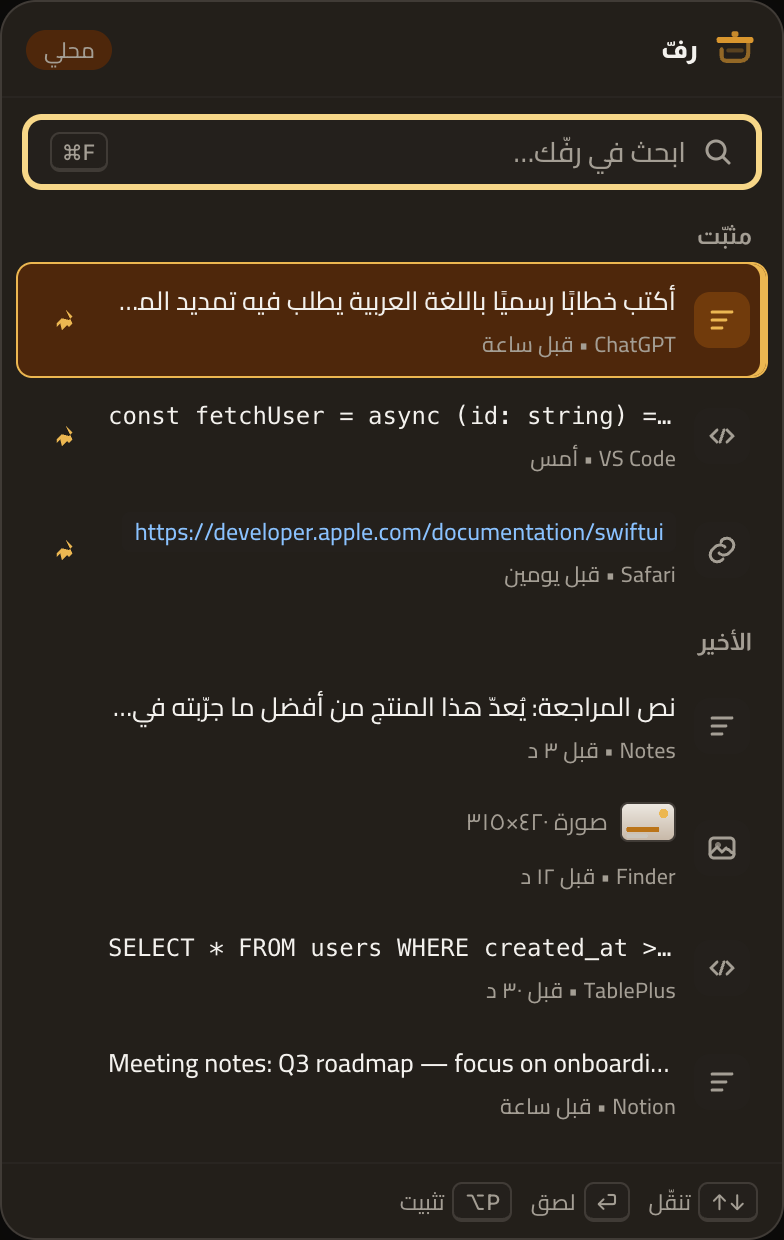
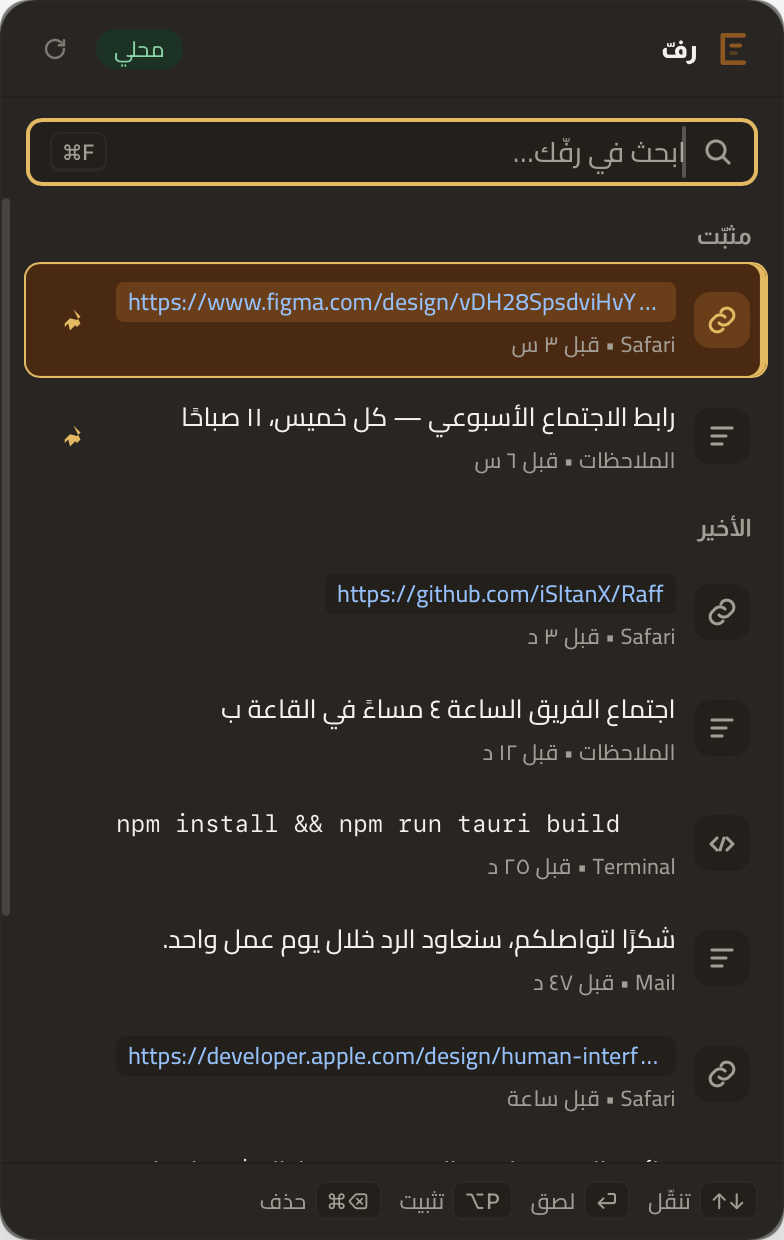
docs: real v3.1.0 screenshots for panel + settings
Replaces the pre-v3.0.0 panel (dark/light) and settings (dark) screenshots
with real captures from the current v3.1.0 build, showing the final
Containing Bracket identity. Captured window-scoped only (screencapture -l,
never full-screen) from a temporarily-launched build instance running
synthetic placeholder clipboard data — the user's real history was
checksum-verified, backed up, and restored immediately after.

The About-window light screenshot could not be updated this pass: reaching
it requires switching a UI tab, and the available interaction paths
(Accessibility scripting, computer-use on this LSUIElement app, synthetic
CGEventPost input) are either unavailable or correctly blocked as
input-simulation. README now notes this specific gap instead of implying
it's current.

No changes to the approved mark, version, or app logic.

diff --git a/README.md b/README.md
@@ -29,7 +29,7 @@
 <div align="center">
 <img src="docs/assets/shot-panel-dark.png" alt="اللوحة العائمة — الوضع الداكن" width="392" />
 <img src="docs/assets/shot-panel-light.png" alt="اللوحة العائمة — الوضع الفاتح" width="392" />
-<br /><sub>لقطات من واجهة ما قبل v3.0.0 — التخطيط لم يتغيّر، الهوية البصرية نعم. انظر <a href="#لقطات-من-واجهة-ما-قبل-v300">أدناه</a>.</sub>
+<br /><sub>لقطات فعلية من الإصدار الحالي v3.1.0. محتوى السجل الظاهر بيانات توضيحية وهمية لأغراض العرض فقط.</sub>
 </div>
 
 ---
@@ -155,7 +155,7 @@
 
 ---
 
-## لقطات من واجهة ما قبل v3.0.0
+## لقطات إضافية
 
 <div align="center">
 
@@ -170,12 +170,11 @@
 </div>
 
 > [!NOTE]
-> اللقطات أعلاه (وأعلى الصفحة) من واجهة ما قبل v3.0.0، وما زالت تُظهر
-> الشعار وأيقونة التطبيق والألوان القديمة. التخطيط العام لم يتغيّر —
-> نفس الأقسام والأزرار والاختصارات — لكن الهوية البصرية الفعلية الحالية
-> هي شعار «القوس الحاضن» وأيقونة التطبيق ولوحة الألوان الموصوفة في
-> [الهوية البصرية](#الهوية-البصرية) أعلاه. ستُستبدل هذه اللقطات بلقطات
-> فعلية من الإصدار الحالي في تحديث لاحق.
+> لقطة الإعدادات أعلاه فعلية من الإصدار الحالي v3.1.0. لقطة نافذة «حول»
+> ما زالت من واجهة ما قبل v3.0.0 ولم تُحدَّث بعد — التخطيط نفسه، لكنها
+> تُظهر الشعار وأيقونة التطبيق والألوان القديمة بدل شعار «القوس الحاضن»
+> الحالي الموصوف في [الهوية البصرية](#الهوية-البصرية) أعلاه. ستُستبدل في
+> تحديث لاحق.
 
 ---
 
